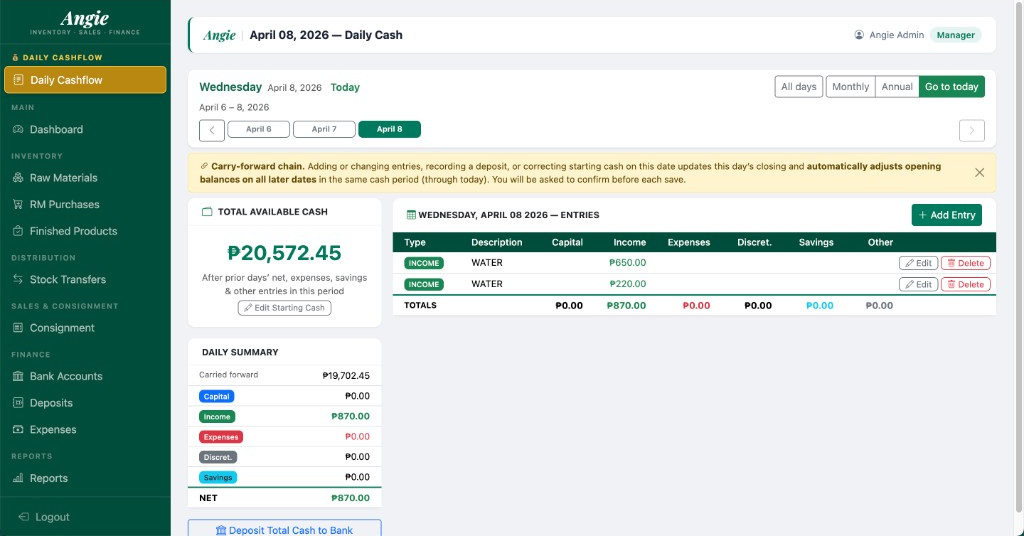
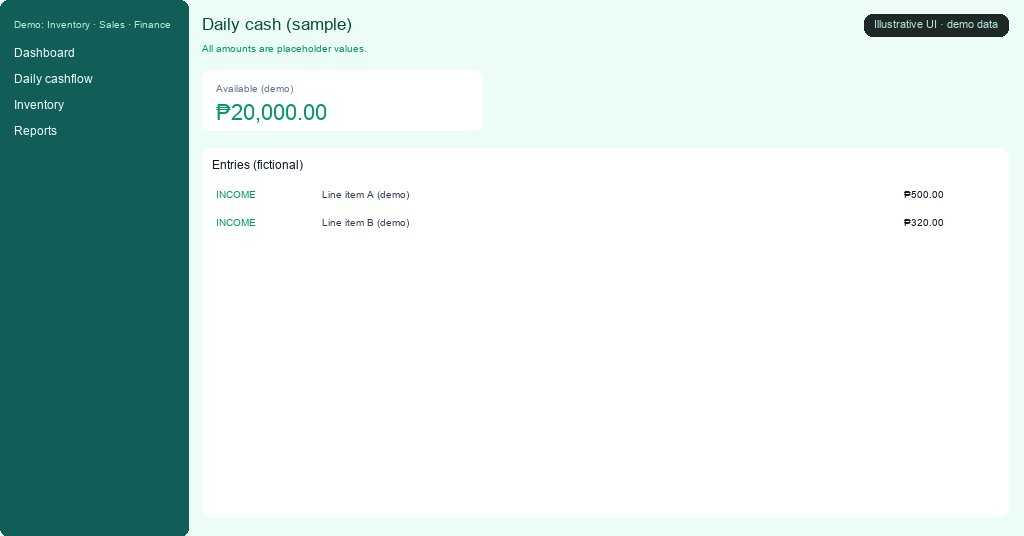
Replace case study screenshots with illustrative mockups using dummy data
Made-with: Cursor

diff --git a/index.html b/index.html
@@ -968,14 +968,14 @@ body.nav-open{overflow:hidden;touch-action:none}
     <div class="reveal">
       <div class="section-label">Selected work</div>
       <h2 class="section-heading">Production systems, <em>real clients</em></h2>
-      <p class="section-sub">Laravel + MySQL, with <strong>React</strong> / <strong>JS</strong> where the UI needs it. Real production screens below.</p>
+      <p class="section-sub">Laravel + MySQL, with <strong>React</strong> / <strong>JS</strong> where the UI needs it. Screens below are <strong>illustrative mockups</strong> with dummy data — real client names and figures are not shown.</p>
     </div>
     <div class="cases-grid">
 
       <div class="case-card reveal">
         <div class="case-img">
-          <img class="case-shot-img" src="images/cases/jm-rosel.png" alt="JMRosel Trucking Services — operations dashboard" width="800" height="500" loading="lazy" decoding="async">
-          <span class="case-img-badge">Production UI</span>
+          <img class="case-shot-img" src="images/cases/jm-rosel.png" alt="JMRosel Trucking Services — illustrative fleet dashboard mockup with dummy data" width="800" height="500" loading="lazy" decoding="async">
+          <span class="case-img-badge">Sample UI</span>
         </div>
         <div class="case-body">
           <span class="case-tag">Fleet · Payroll</span>
@@ -992,7 +992,7 @@ body.nav-open{overflow:hidden;touch-action:none}
 
       <div class="case-card reveal" style="transition-delay:.04s">
         <div class="case-img">
-          <img class="case-shot-img" src="images/cases/divinejm.png" alt="Divine JM Foods — Finished Products ERP dashboard with stock levels and production" width="800" height="500" loading="lazy" decoding="async">
+          <img class="case-shot-img" src="images/cases/divinejm.png" alt="Divine JM Foods — illustrative ERP-style mockup with dummy products and figures" width="800" height="500" loading="lazy" decoding="async">
           <span class="case-img-badge">30+ branches</span>
         </div>
         <div class="case-body">
@@ -1010,7 +1010,7 @@ body.nav-open{overflow:hidden;touch-action:none}
 
       <div class="case-card reveal" style="transition-delay:.08s">
         <div class="case-img">
-          <img class="case-shot-img" src="images/cases/angie.png" alt="Angie — Daily Cashflow dashboard for inventory, sales, and finance" width="800" height="500" loading="lazy" decoding="async">
+          <img class="case-shot-img" src="images/cases/angie.png" alt="Angie — illustrative cashflow mockup with placeholder amounts" width="800" height="500" loading="lazy" decoding="async">
           <span class="case-img-badge">2 branches</span>
         </div>
         <div class="case-body">
@@ -1028,7 +1028,7 @@ body.nav-open{overflow:hidden;touch-action:none}
 
       <div class="case-card reveal" style="transition-delay:.12s">
         <div class="case-img">
-          <img class="case-shot-img" src="images/cases/citipower.png" alt="Citipower Electronic Supply — products and inventory dashboard" width="800" height="500" loading="lazy" decoding="async">
+          <img class="case-shot-img" src="images/cases/citipower.png" alt="Citipower — illustrative inventory mockup with dummy SKUs" width="800" height="500" loading="lazy" decoding="async">
           <span class="case-img-badge">Inventory · PO · Sales</span>
         </div>
         <div class="case-body">
@@ -1046,7 +1046,7 @@ body.nav-open{overflow:hidden;touch-action:none}
 
       <div class="case-card reveal" style="transition-delay:.16s">
         <div class="case-img">
-          <img class="case-shot-img" src="images/cases/ronnie-aircon.png" alt="Ronnie Budiongan Aircon — dashboard" width="800" height="500" loading="lazy" decoding="async">
+          <img class="case-shot-img" src="images/cases/ronnie-aircon.png" alt="Ronnie Budiongan Aircon — illustrative service inventory mockup with dummy serials" width="800" height="500" loading="lazy" decoding="async">
           <span class="case-img-badge">Serial &amp; services</span>
         </div>
         <div class="case-body">
@@ -1064,7 +1064,7 @@ body.nav-open{overflow:hidden;touch-action:none}
 
       <div class="case-card reveal" style="transition-delay:.2s">
         <div class="case-img">
-          <img class="case-shot-img" src="images/cases/aag-maritime.png" alt="AAG Maritime Management Services Corporation — homepage and hero" width="800" height="500" loading="lazy" decoding="async">
+          <img class="case-shot-img" src="images/cases/aag-maritime.png" alt="AAG Maritime — illustrative marketing hero mockup (placeholder copy)" width="800" height="500" loading="lazy" decoding="async">
           <span class="case-img-badge">aagmaritime.com</span>
         </div>
         <div class="case-body">

diff --git a/scripts/generate_dummy_case_images.py b/scripts/generate_dummy_case_images.py
@@ -1,0 +1,285 @@
+#!/usr/bin/env python3
+"""Generate anonymized case-study PNGs with dummy data only (no real client figures or names)."""
+
+from __future__ import annotations
+
+from pathlib import Path
+
+from PIL import Image, ImageDraw, ImageFont
+
+ROOT = Path(__file__).resolve().parents[1]
+OUT = ROOT / "images" / "cases"
+FONT_PATH = "/System/Library/Fonts/Supplemental/Arial.ttf"
+
+
+def load_font(size: int) -> ImageFont.FreeTypeFont:
+    return ImageFont.truetype(FONT_PATH, size)
+
+
+def rounded_rect(
+    draw: ImageDraw.ImageDraw,
+    xy: tuple[int, int, int, int],
+    fill: str | tuple[int, int, int],
+    radius: int = 8,
+) -> None:
+    x0, y0, x1, y1 = xy
+    draw.rounded_rectangle((x0, y0, x1, y1), radius=radius, fill=fill)
+
+
+def draw_demo_badge(img: Image.Image, draw: ImageDraw.ImageDraw, w: int) -> None:
+    font = load_font(11)
+    label = "Illustrative UI · demo data"
+    tw = draw.textlength(label, font=font)
+    pad_x, pad_y = 10, 6
+    x1, y1 = w - 16, 14
+    x0 = int(x1 - tw - pad_x * 2)
+    y0 = y1
+    y1 = y0 + 22
+    rounded_rect(draw, (x0, y0, x1, y1), fill=(30, 41, 39))
+    draw.text((x0 + pad_x, y0 + 4), label, fill=(180, 230, 220), font=font)
+
+
+def jm_rosel(w: int, h: int) -> Image.Image:
+    img = Image.new("RGB", (w, h), (248, 250, 252))
+    draw = ImageDraw.Draw(img)
+    sw = 220
+    rounded_rect(draw, (0, 0, sw, h), fill=(15, 23, 42))
+    f_sm, f_md, f_lg = load_font(11), load_font(13), load_font(15)
+    y = 24
+    draw.text((20, y), "Demo Fleet Co.", fill=(148, 163, 184), font=f_sm)
+    y += 28
+    for item in ("Dashboard", "Trips", "Expenses", "Payroll", "Reports"):
+        draw.text((20, y), item, fill=(226, 232, 240), font=f_md)
+        y += 34
+    draw.text((20, h - 44), "User: demo.admin", fill=(100, 116, 139), font=f_sm)
+
+    hx = sw + 28
+    draw.text((hx, 20), "Operations overview", fill=(15, 23, 42), font=load_font(22))
+    draw.text((hx, 52), "Sample metrics for portfolio — not live data.", fill=(100, 116, 139), font=f_sm)
+
+    # stat cards
+    cx = hx
+    for i, (lab, val) in enumerate(
+        (
+            ("Active trips", "12"),
+            ("Pending", "3"),
+            ("Fuel (demo)", "₱45,200"),
+        )
+    ):
+        x0 = cx + i * 200
+        rounded_rect(draw, (x0, 88, x0 + 180, 168), fill=(255, 255, 255), radius=10)
+        draw.rectangle((x0, 88, x0 + 180, 92), fill=(59, 130, 246))
+        draw.text((x0 + 14, 104), lab, fill=(100, 116, 139), font=f_sm)
+        draw.text((x0 + 14, 124), val, fill=(15, 23, 42), font=load_font(20))
+
+    # table header
+    ty = 196
+    rounded_rect(draw, (hx, ty, w - 28, ty + 36), fill=(241, 245, 249))
+    cols = ("Trip ID", "Route", "Status", "Amount (demo)")
+    xs = [hx + 12, hx + 160, hx + 420, hx + 620]
+    for x, c in zip(xs, cols):
+        draw.text((x, ty + 10), c, fill=(71, 85, 105), font=f_md)
+    rows = [
+        ("TRP-1001", "Hub A → Hub B", "Open", "₱12,340"),
+        ("TRP-1002", "Hub C → Hub A", "Closed", "₱8,900"),
+        ("TRP-1003", "Hub B → Hub D", "Open", "₱15,000"),
+    ]
+    ry = ty + 40
+    for r in rows:
+        rounded_rect(draw, (hx, ry, w - 28, ry + 40), fill=(255, 255, 255))
+        for x, cell in zip(xs, r):
+            draw.text((x, ry + 12), cell, fill=(51, 65, 85), font=f_sm)
+        ry += 44
+
+    draw_demo_badge(img, draw, w)
+    return img
+
+
+def divinejm(w: int, h: int) -> Image.Image:
+    img = Image.new("RGB", (w, h), (245, 247, 250))
+    draw = ImageDraw.Draw(img)
+    sw = 200
+    rounded_rect(draw, (0, 0, sw, h), fill=(248, 250, 252))
+    f_sm, f_md = load_font(10), load_font(12)
+    y = 16
+    draw.text((14, y), "Sample Foods (demo)", fill=(71, 85, 105), font=f_md)
+    y += 26
+    for item in ("Dashboard", "Finished products", "Production", "Sales", "Reports"):
+        draw.text((14, y), item, fill=(51, 65, 85), font=f_sm)
+        y += 26
+    hx = sw + 16
+    draw.text((hx, 16), "Finished products", fill=(15, 23, 42), font=load_font(18))
+    draw.text((hx, 44), "Placeholder list — figures are fictional.", fill=(100, 116, 139), font=f_sm)
+    rounded_rect(draw, (hx, 72, w - 16, 112), fill=(59, 130, 246))
+    draw.text((hx + 12, 86), "+ Add sample product", fill=(255, 255, 255), font=f_sm)
+
+    ty = 124
+    rounded_rect(draw, (hx, ty, w - 16, ty + 32), fill=(226, 232, 240))
+    headers = ("Product (demo)", "Type", "Stock", "Min")
+    xs = [hx + 8, hx + 220, hx + 360, hx + 460]
+    for x, t in zip(xs, headers):
+        draw.text((x, ty + 8), t, fill=(71, 85, 105), font=f_sm)
+    rows = [
+        ("SKU-DEMO-01", "Mfg", "120", "20"),
+        ("SKU-DEMO-02", "Mfg", "45", "30"),
+        ("SKU-DEMO-03", "Mfg", "8", "15"),
+        ("SKU-DEMO-04", "Mfg", "200", "40"),
+    ]
+    ry = ty + 36
+    for i, r in enumerate(rows):
+        bg = (254, 242, 242) if i == 0 else (255, 251, 235) if i == 1 else (255, 255, 255)
+        rounded_rect(draw, (hx, ry, w - 16, ry + 36), fill=bg)
+        for x, cell in zip(xs, r):
+            draw.text((x, ry + 10), cell, fill=(51, 65, 85), font=f_sm)
+        ry += 38
+    draw_demo_badge(img, draw, w)
+    return img
+
+
+def angie(w: int, h: int) -> Image.Image:
+    img = Image.new("RGB", (w, h), (236, 253, 245))
+    draw = ImageDraw.Draw(img)
+    sw = 188
+    rounded_rect(draw, (0, 0, sw, h), fill=(17, 94, 89))
+    f_sm, f_md = load_font(10), load_font(12)
+    y = 18
+    draw.text((14, y), "Demo: Inventory · Sales · Finance", fill=(167, 243, 208), font=f_sm)
+    y += 28
+    for item in ("Dashboard", "Daily cashflow", "Inventory", "Reports"):
+        draw.text((14, y), item, fill=(240, 253, 250), font=f_md)
+        y += 26
+    hx = sw + 14
+    draw.text((hx, 14), "Daily cash (sample)", fill=(6, 78, 59), font=load_font(17))
+    draw.text((hx, 42), "All amounts are placeholder values.", fill=(5, 150, 105), font=f_sm)
+    rounded_rect(draw, (hx, 70, hx + 280, 130), fill=(255, 255, 255))
+    draw.text((hx + 14, 82), "Available (demo)", fill=(100, 116, 139), font=f_sm)
+    draw.text((hx + 14, 100), "₱20,000.00", fill=(5, 150, 105), font=load_font(22))
+
+    ty = 148
+    rounded_rect(draw, (hx, ty, w - 16, h - 20), fill=(255, 255, 255))
+    draw.text((hx + 10, ty + 10), "Entries (fictional)", fill=(15, 23, 42), font=f_md)
+    rows = [("INCOME", "Line item A (demo)", "₱500.00"), ("INCOME", "Line item B (demo)", "₱320.00")]
+    ry = ty + 40
+    for r in rows:
+        draw.text((hx + 14, ry), r[0], fill=(5, 150, 105), font=f_sm)
+        draw.text((hx + 120, ry), r[1], fill=(51, 65, 85), font=f_sm)
+        draw.text((w - 120, ry), r[2], fill=(15, 23, 42), font=f_sm)
+        ry += 28
+    draw_demo_badge(img, draw, w)
+    return img
+
+
+def citipower(w: int, h: int) -> Image.Image:
+    img = Image.new("RGB", (w, h), (248, 250, 252))
+    draw = ImageDraw.Draw(img)
+    sw = 224
+    rounded_rect(draw, (0, 0, sw, h), fill=(30, 41, 59))
+    f_sm, f_md = load_font(11), load_font(13)
+    y = 20
+    draw.text((16, y), "Demo Electronics Portal", fill=(148, 163, 184), font=f_sm)
+    y += 28
+    for item in ("Products", "Purchase orders", "Inventory", "Sales"):
+        draw.text((16, y), item, fill=(226, 232, 240), font=f_md)
+        y += 32
+    hx = sw + 24
+    draw.text((hx, 20), "Products & stock (sample)", fill=(15, 23, 42), font=load_font(20))
+    draw.text((hx, 54), "SKUs and quantities are not real.", fill=(100, 116, 139), font=f_sm)
+    ty = 96
+    rounded_rect(draw, (hx, ty, w - 32, ty + 40), fill=(226, 232, 240))
+    for i, t in enumerate(("SKU (demo)", "On hand", "Status")):
+        draw.text((hx + 16 + i * 280, ty + 12), t, fill=(71, 85, 105), font=f_md)
+    rows = [
+        ("PART-DEMO-001", "240", "OK"),
+        ("PART-DEMO-002", "18", "Low"),
+        ("PART-DEMO-003", "90", "OK"),
+    ]
+    ry = ty + 48
+    for r in rows:
+        rounded_rect(draw, (hx, ry, w - 32, ry + 44), fill=(255, 255, 255))
+        draw.text((hx + 16, ry + 14), r[0], fill=(30, 41, 59), font=f_sm)
+        draw.text((hx + 300, ry + 14), r[1], fill=(30, 41, 59), font=f_sm)
+        draw.text((hx + 560, ry + 14), r[2], fill=(22, 163, 74), font=f_sm)
+        ry += 50
+    draw_demo_badge(img, draw, w)
+    return img
+
+
+def ronnie_aircon(w: int, h: int) -> Image.Image:
+    img = Image.new("RGB", (w, h), (255, 255, 255))
+    draw = ImageDraw.Draw(img)
+    sw = 210
+    rounded_rect(draw, (0, 0, sw, h), fill=(241, 245, 249))
+    f_sm, f_md = load_font(11), load_font(13)
+    y = 18
+    draw.text((14, y), "Sample HVAC Services (demo)", fill=(71, 85, 105), font=f_md)
+    y += 30
+    for item in ("Inventory", "Serial #", "Service jobs", "Installments"):
+        draw.text((14, y), item, fill=(51, 65, 85), font=f_sm)
+        y += 30
+    hx = sw + 20
+    draw.text((hx, 18), "Equipment & serials (fictional)", fill=(15, 23, 42), font=load_font(19))
+    draw.text((hx, 50), "Serial numbers below are placeholders.", fill=(100, 116, 139), font=f_sm)
+    ty = 88
+    headers = ("Unit (demo)", "Serial", "Job status")
+    xs = [hx + 10, hx + 320, hx + 560]
+    rounded_rect(draw, (hx, ty, w - 24, ty + 36), fill=(226, 232, 240))
+    for x, t in zip(xs, headers):
+        draw.text((x, ty + 10), t, fill=(71, 85, 105), font=f_md)
+    rows = [
+        ("Split-type A", "SN-DEMO-7X9K2", "Scheduled"),
+        ("Cassette B", "SN-DEMO-4M1P8", "Done"),
+        ("Window C", "SN-DEMO-2Q5R1", "Open"),
+    ]
+    ry = ty + 42
+    for r in rows:
+        rounded_rect(draw, (hx, ry, w - 24, ry + 42), fill=(248, 250, 252))
+        for x, cell in zip(xs, r):
+            draw.text((x, ry + 13), cell, fill=(30, 41, 59), font=f_sm)
+        ry += 46
+    draw_demo_badge(img, draw, w)
+    return img
+
+
+def aag_maritime(w: int, h: int) -> Image.Image:
+    img = Image.new("RGB", (w, h), (14, 36, 56))
+    draw = ImageDraw.Draw(img)
+    for y in range(h):
+        t = y / h
+        r = int(14 + t * 30)
+        g = int(36 + t * 40)
+        b = int(56 + t * 50)
+        draw.line([(0, y), (w, y)], fill=(r, g, b))
+    f_lg, f_md, f_sm = load_font(36), load_font(15), load_font(12)
+    draw.text((60, h // 2 - 80), "Maritime services (demo page)", fill=(240, 250, 255), font=f_lg)
+    draw.text(
+        (60, h // 2 - 10),
+        "Placeholder hero for portfolio — not a live marketing site.",
+        fill=(186, 230, 253),
+        font=f_md,
+    )
+    draw.text((60, h // 2 + 28), "Contact: demo@example.com · +63 000 000 0000", fill=(125, 211, 252), font=f_sm)
+    rounded_rect(draw, (60, h // 2 + 70, 240, h // 2 + 110), fill=(14, 165, 233))
+    draw.text((88, h // 2 + 84), "Request sample quote", fill=(255, 255, 255), font=f_md)
+    draw_demo_badge(img, draw, w)
+    return img
+
+
+def main() -> None:
+    OUT.mkdir(parents=True, exist_ok=True)
+    gens = [
+        ("jm-rosel.png", jm_rosel, 1400, 617),
+        ("divinejm.png", divinejm, 1024, 520),
+        ("angie.png", angie, 1024, 536),
+        ("citipower.png", citipower, 1400, 729),
+        ("ronnie-aircon.png", ronnie_aircon, 1400, 731),
+        ("aag-maritime.png", aag_maritime, 1400, 729),
+    ]
+    for name, fn, width, height in gens:
+        im = fn(width, height)
+        path = OUT / name
+        im.save(path, "PNG", optimize=True)
+        print(f"Wrote {path} ({width}x{height})")
+
+
+if __name__ == "__main__":
+    main()
